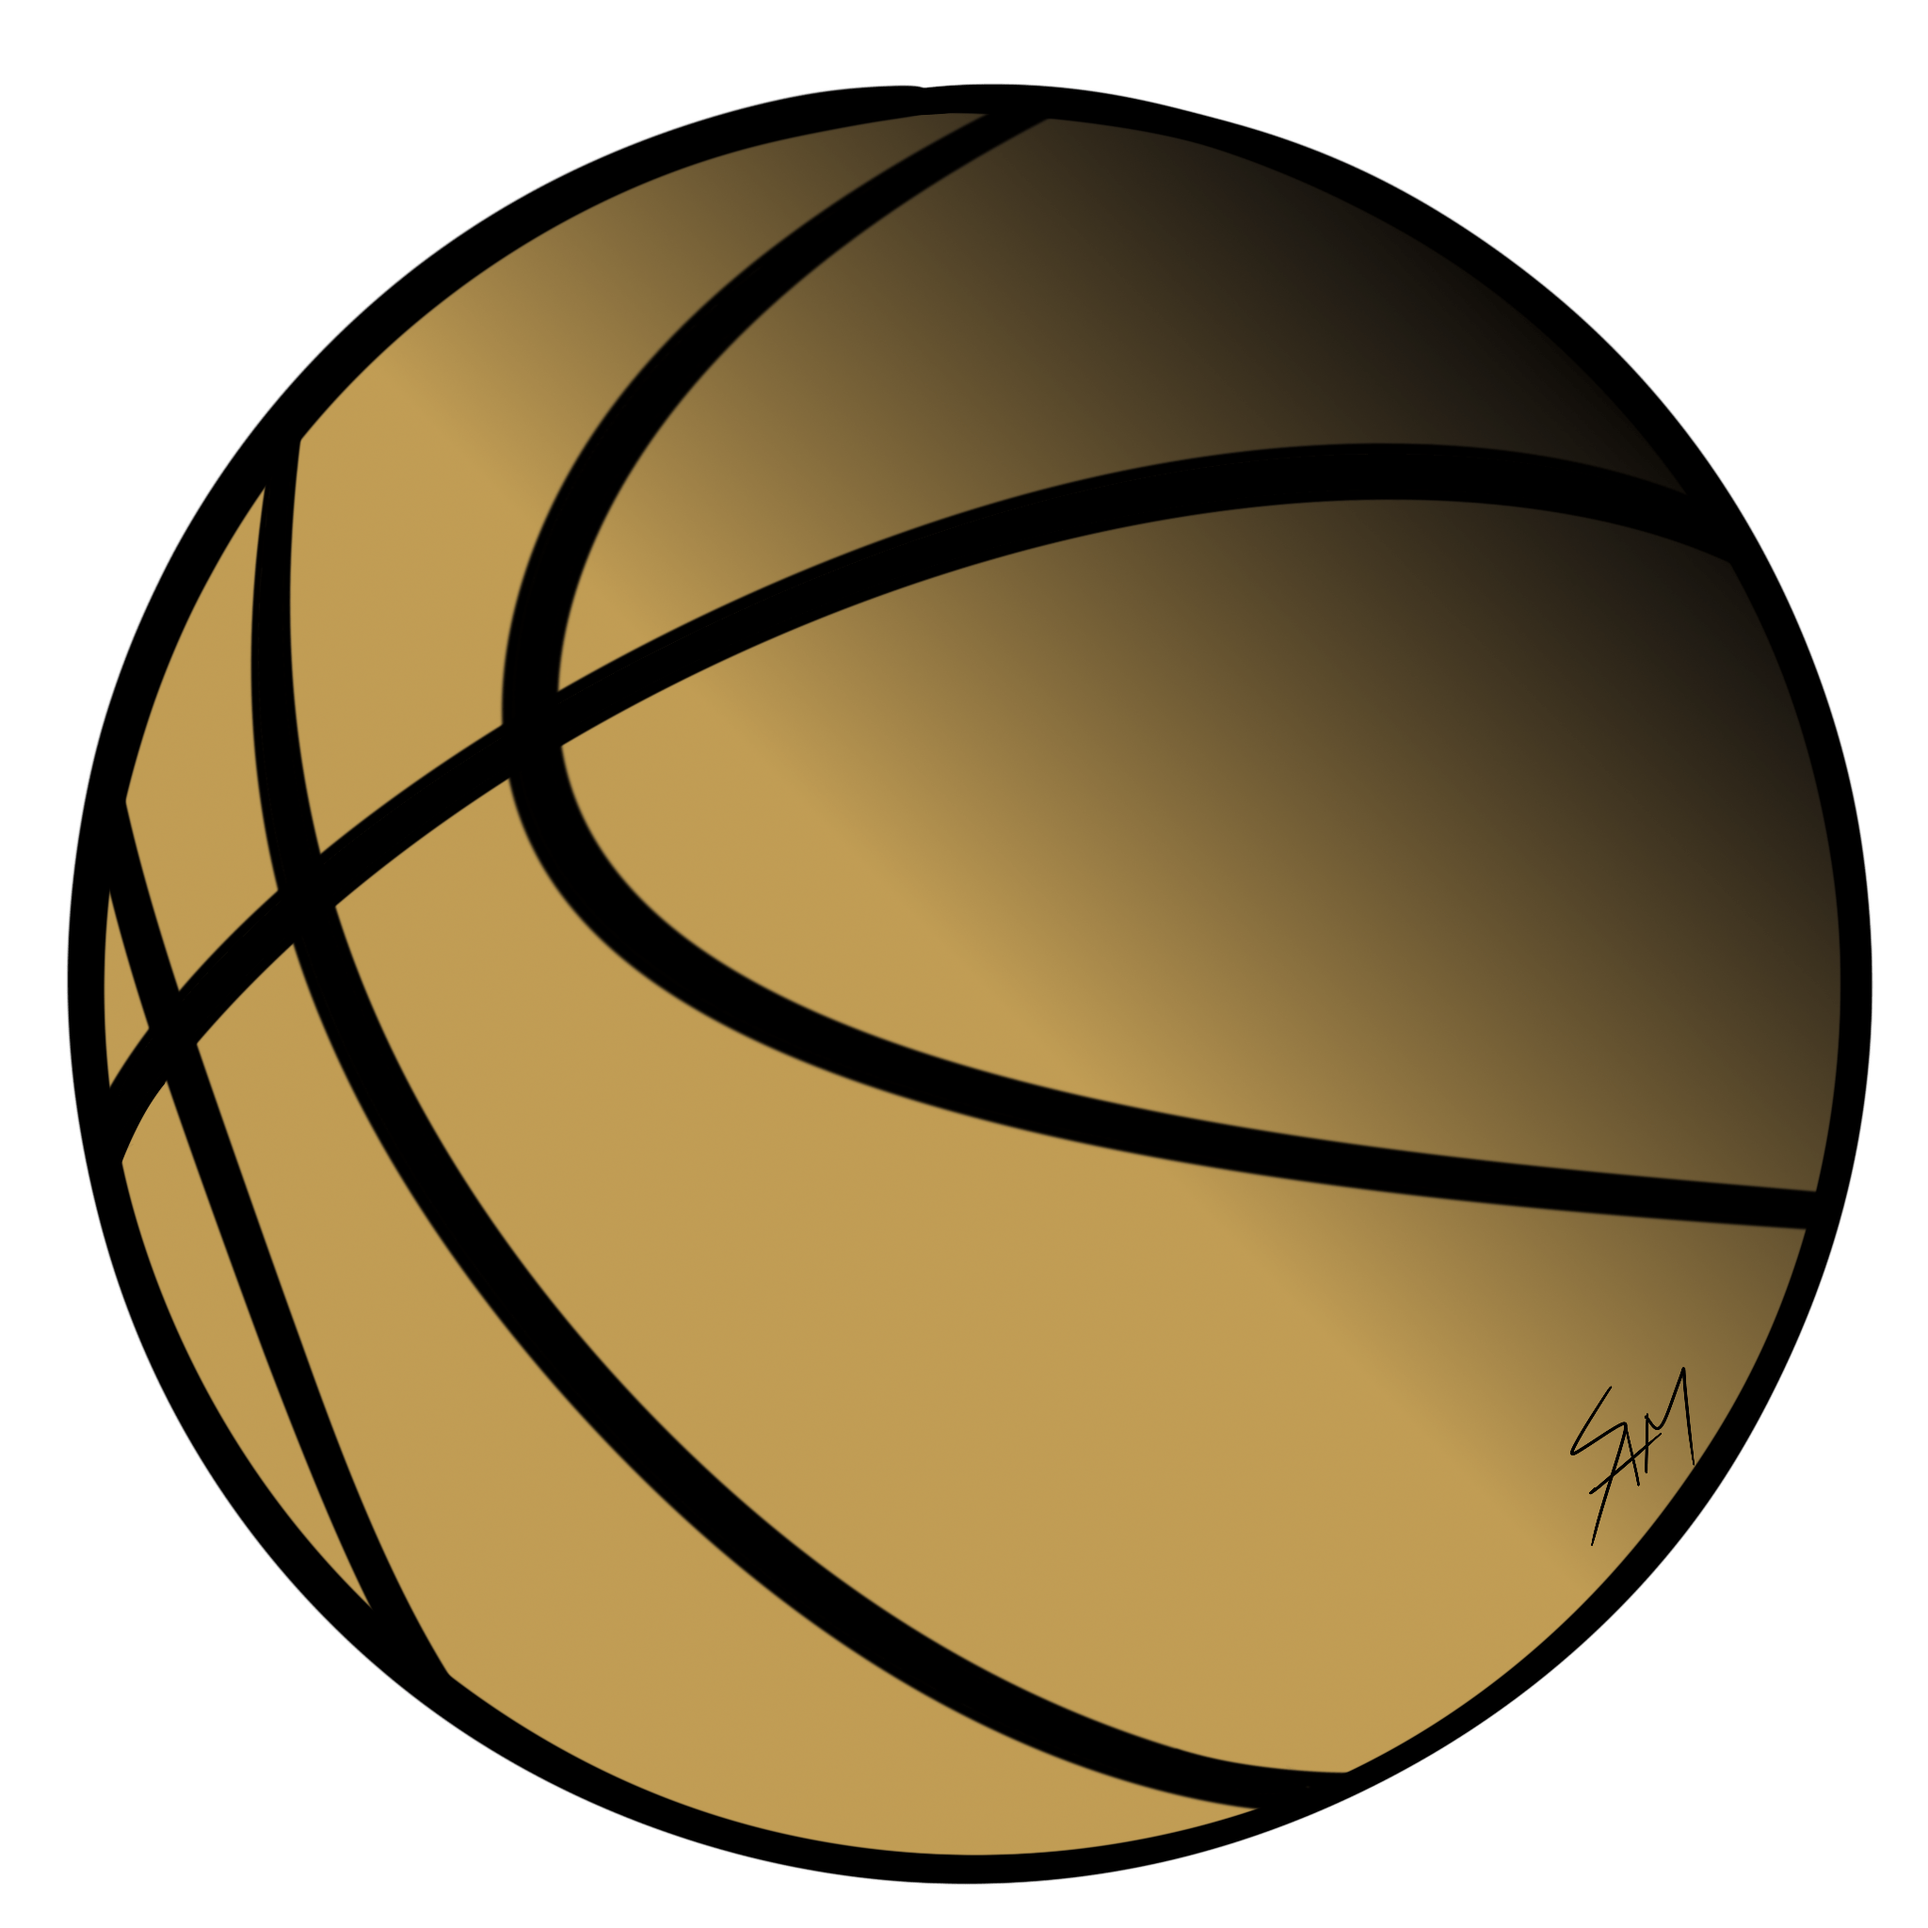
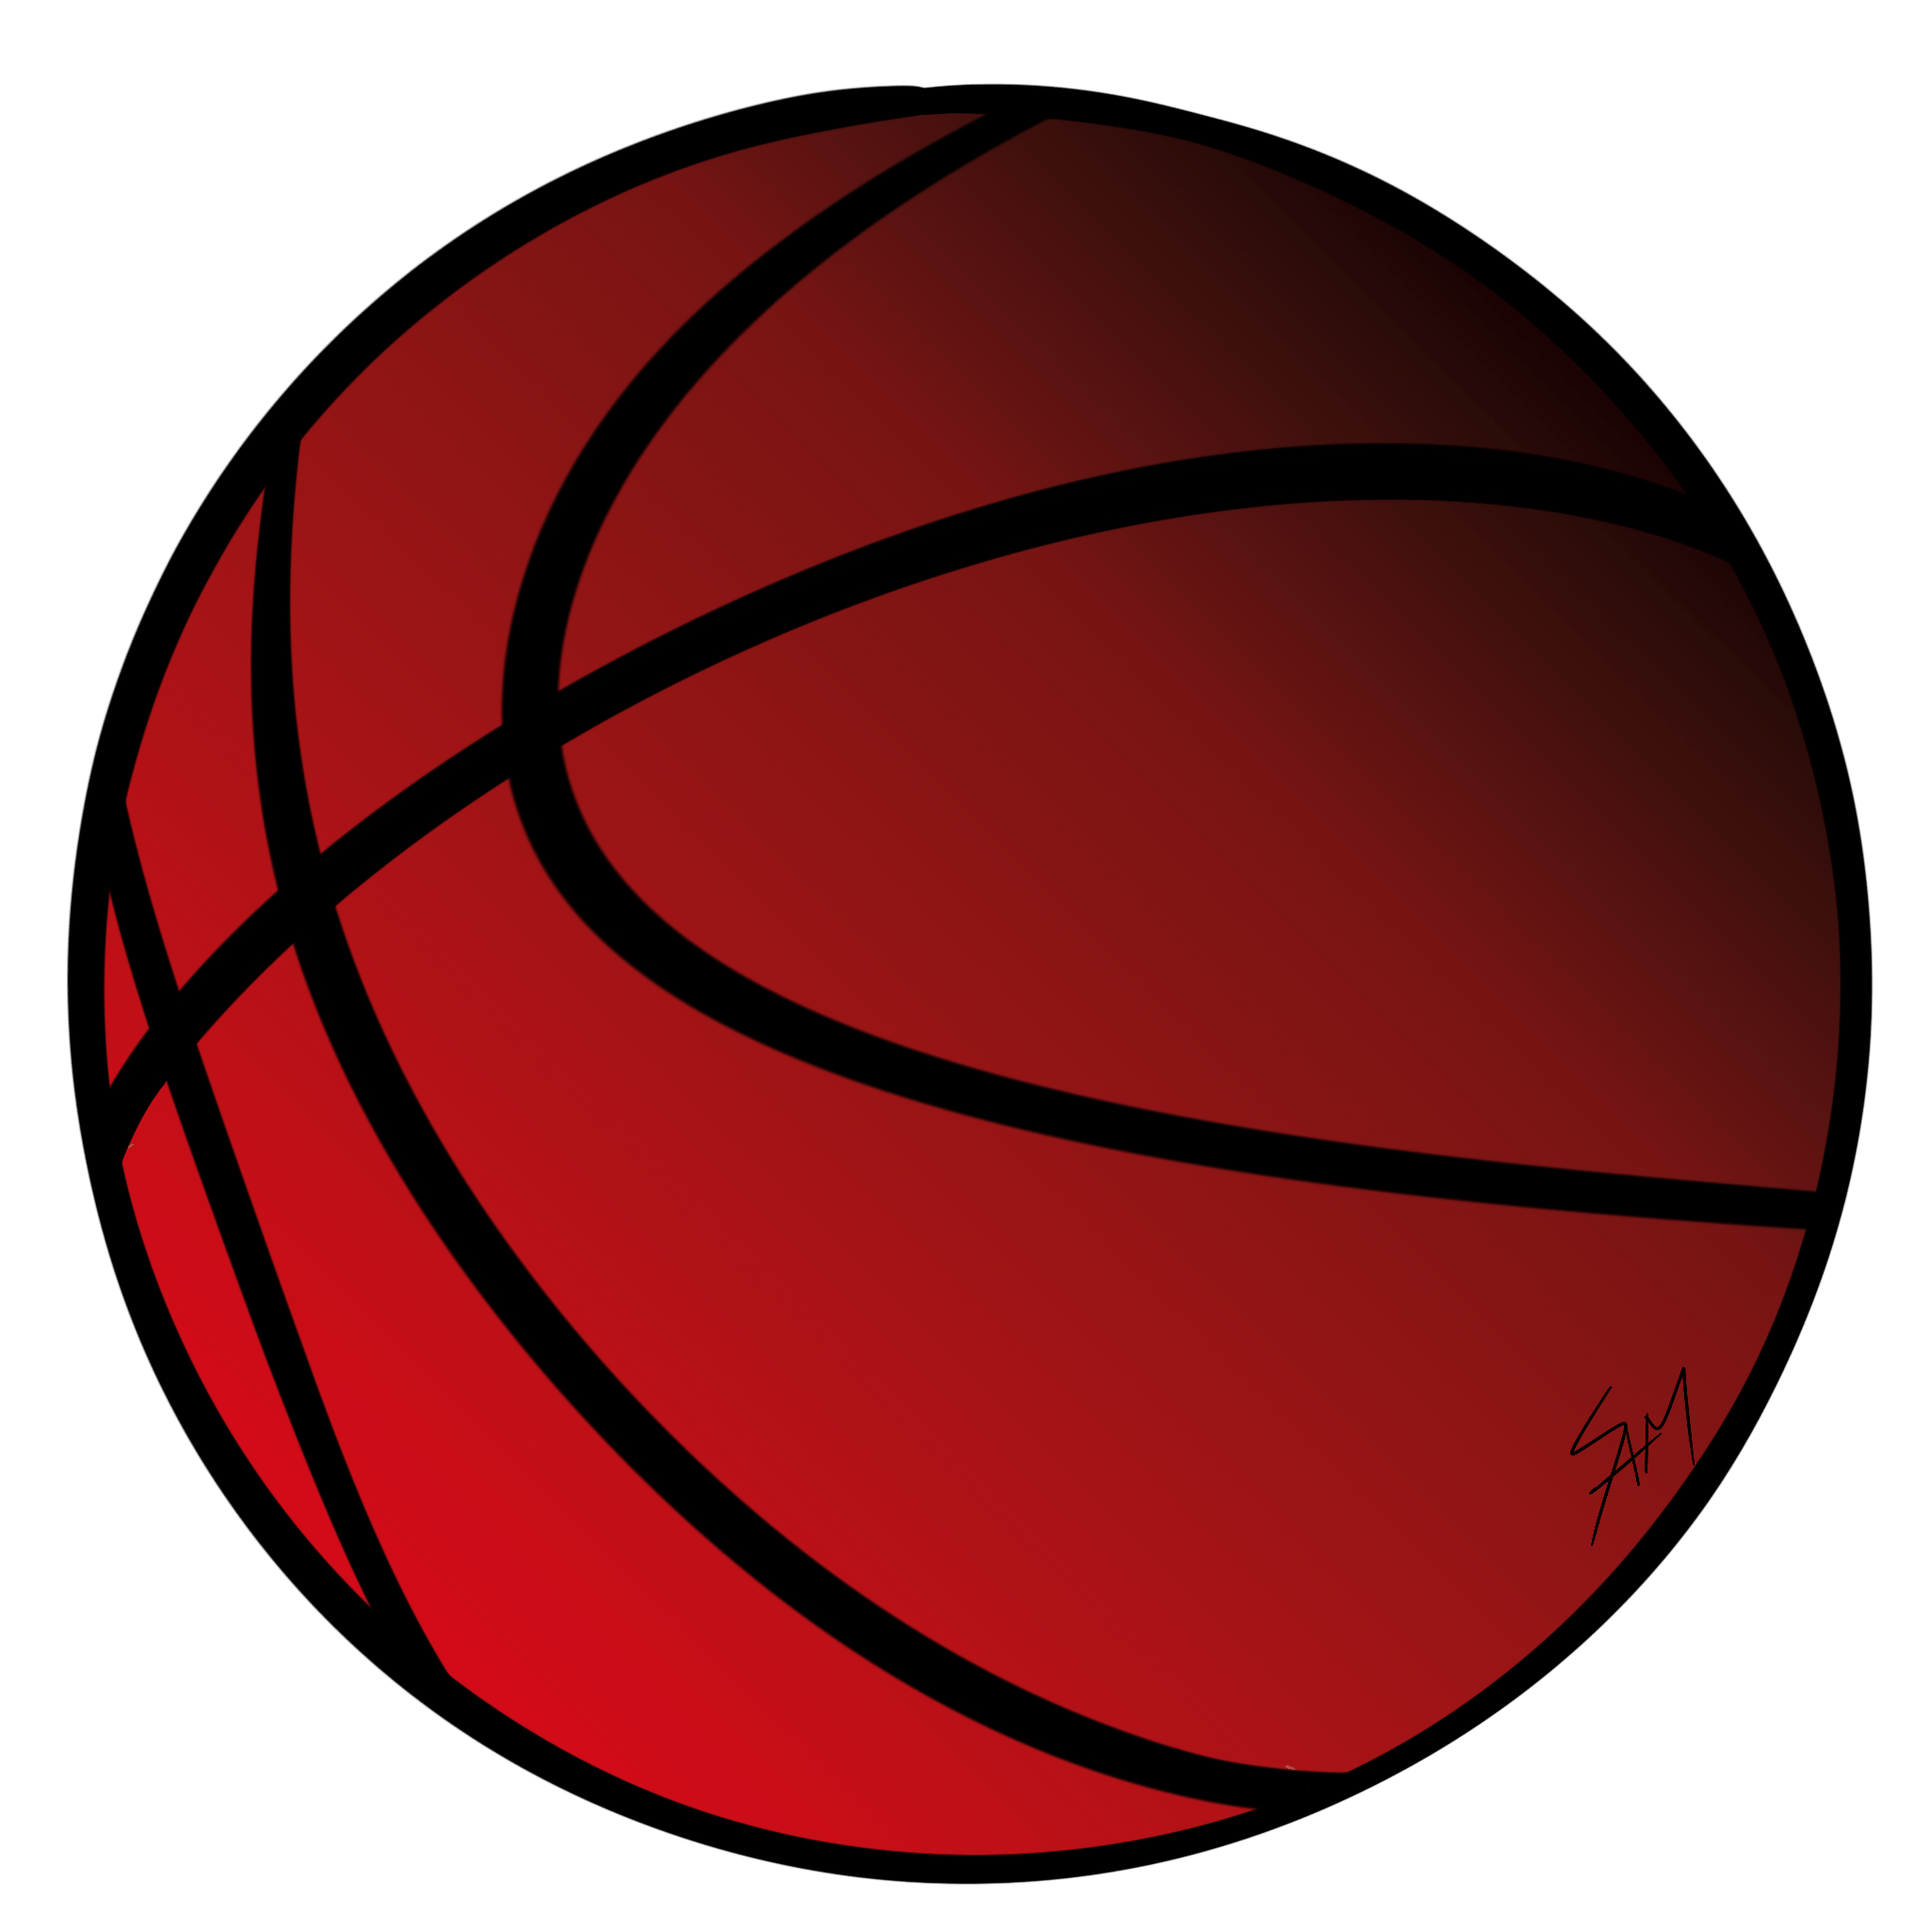
changed players.css to background.css

diff --git a/free-agents.html b/free-agents.html
@@ -9,7 +9,7 @@
     <link rel="icon" href="../asset/images/logo.png" type="image/icon">
     <link rel="stylesheet" href="../css/bootstrap.min.css">
     <link rel="stylesheet" href="../css/custom.css">
-    <link rel="stylesheet" href="../css/players.css">
+    <link rel="stylesheet" href="../css/background.css">
     <link rel="stylesheet" href="../css/table.css">
 
     <script src="../js/tools/popper.min.js"></script>

diff --git a/index.html b/index.html
@@ -9,7 +9,7 @@
     <link rel="icon" href="../asset/images/logo.png" type="image/icon">
     <link rel="stylesheet" href="../css/bootstrap.min.css">
     <link rel="stylesheet" href="../css/custom.css">
-    <link rel="stylesheet" href="../css/players.css">
+    <link rel="stylesheet" href="../css/background.css">
     <link rel="stylesheet" href="../css/table.css">
 
     <script src="../js/tools/popper.min.js"></script>

diff --git a/contracts.html b/contracts.html
@@ -9,7 +9,7 @@
 	<link rel="icon" href="../asset/images/logo.png" type="image/icon">
 	<link rel="stylesheet" href="../css/bootstrap.min.css">
 	<link rel="stylesheet" href="../css/custom.css">
-	<link rel="stylesheet" href="../css/players.css">
+	<link rel="stylesheet" href="../css/background.css">
 	<link rel="stylesheet" href="../css/table.css">
 
 	<script src="../js/tools/popper.min.js"></script>

diff --git a/drafts.html b/drafts.html
@@ -9,7 +9,7 @@
 	<link rel="icon" href="../asset/images/logo.png" type="image/icon">
 	<link rel="stylesheet" href="../css/bootstrap.min.css">
 	<link rel="stylesheet" href="../css/custom.css">
-	<link rel="stylesheet" href="../css/players.css">
+	<link rel="stylesheet" href="../css/background.css">
 	<link rel="stylesheet" href="../css/table.css">
 
 	<script src="../js/tools/popper.min.js"></script>

diff --git a/players.html b/players.html
@@ -9,7 +9,7 @@
 	<link rel="icon" href="../asset/images/logo.png" type="image/icon">
 	<link rel="stylesheet" href="../css/bootstrap.min.css">
 	<link rel="stylesheet" href="../css/custom.css">
-	<link rel="stylesheet" href="../css/players.css">
+	<link rel="stylesheet" href="../css/background.css">
 	<link rel="stylesheet" href="../css/table.css">
 
 	<script src="../js/tools/popper.min.js"></script>

diff --git a/trades.html b/trades.html
@@ -9,7 +9,7 @@
 	<link rel="icon" href="../asset/images/logo.png" type="image/icon">
 	<link rel="stylesheet" href="../css/bootstrap.min.css">
 	<link rel="stylesheet" href="../css/custom.css">
-	<link rel="stylesheet" href="../css/players.css">
+	<link rel="stylesheet" href="../css/background.css">
 	<link rel="stylesheet" href="../css/table.css">
 
 	<script src="../js/tools/popper.min.js"></script>

diff --git a/us-players.html b/us-players.html
@@ -9,7 +9,7 @@
 	<link rel="icon" href="../asset/images/logo.png" type="image/icon">
 	<link rel="stylesheet" href="../css/bootstrap.min.css">
 	<link rel="stylesheet" href="../css/custom.css">
-	<link rel="stylesheet" href="../css/players.css">
+	<link rel="stylesheet" href="../css/background.css">
 	<link rel="stylesheet" href="../css/table.css">
 
 	<script src="../js/tools/popper.min.js"></script>

diff --git a/index-old.html b/index-old.html
@@ -9,7 +9,7 @@
 	<link rel="icon" href="./asset/images/logo.png" type="image/icon">
 	<link rel="stylesheet" href="./css/bootstrap.min.css">
 	<link rel="stylesheet" href="./css/custom.css">
-	<link rel="stylesheet" href="./css/players.css">
+	<link rel="stylesheet" href="./css/background.css">
 	<link rel="stylesheet" href="./css/table.css">
 
 	<script src="./js/tools/popper.min.js"></script>

diff --git a/playoffs.html b/playoffs.html
@@ -9,7 +9,7 @@
 	<link rel="icon" href="./asset/images/logo.png" type="image/icon">
 	<link rel="stylesheet" href="./css/bootstrap.min.css">
 	<link rel="stylesheet" href="./css/custom.css">
-	<link rel="stylesheet" href="./css/players.css">
+	<link rel="stylesheet" href="./css/background.css">
 	<link rel="stylesheet" href="./css/table.css">
 
 	<script src="./js/tools/popper.min.js"></script>

diff --git a/standings.html b/standings.html
@@ -9,7 +9,7 @@
 	<link rel="icon" href="./asset/images/logo.png" type="image/icon">
 	<link rel="stylesheet" href="./css/bootstrap.min.css">
 	<link rel="stylesheet" href="./css/custom.css">
-	<link rel="stylesheet" href="./css/players.css">
+	<link rel="stylesheet" href="./css/background.css">
 	<link rel="stylesheet" href="./css/table.css">
 
 	<script src="./js/tools/popper.min.js"></script>

diff --git a/css/background.css b/css/background.css
@@ -1,6 +1,6 @@
-.PNB-bg{
+/* .PNB-bg{
 	background-color: #EEEEEE;
-}
+} */
 .CBA-bg{
 	background-color: #B22625;
 	color:#FAF0F0;
@@ -43,7 +43,7 @@
 	background-color: #EDC145;
 }
 .mars-bg{
-	background-color: #BB9E5E;
+	background-color: #ED544E;
 }
 .leopards-bg{
 	background-color: #44984F;
